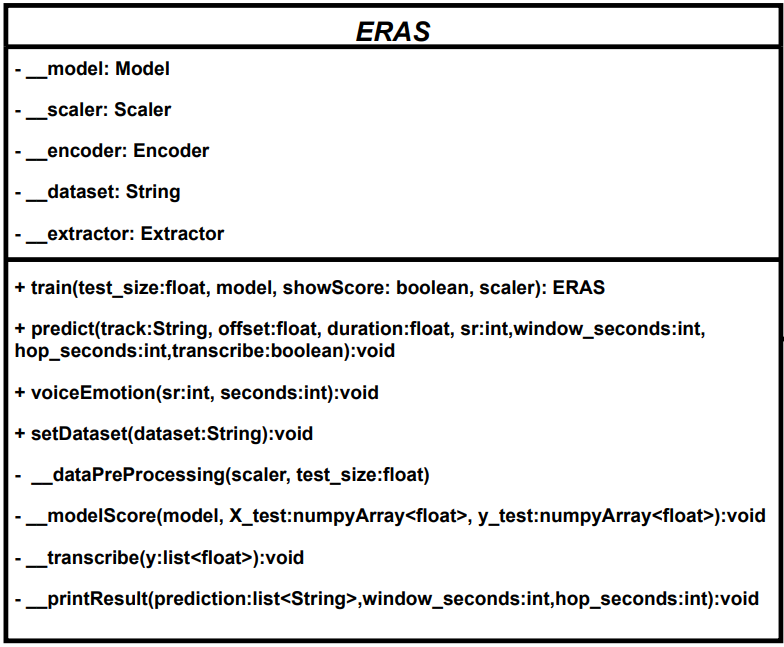
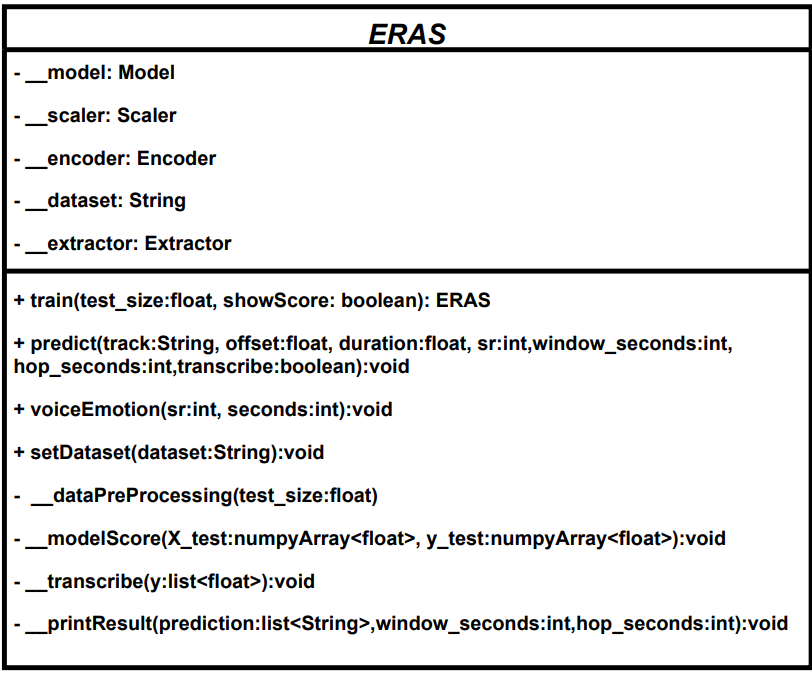
More changes in ERAS and Extractor

Changed region(s): [[0.0, 0.0, 1.0, 0.9892], [0.0612, 0.2782, 0.2449, 0.3091]]

diff --git a/Emotion Recognition of Audio Signals/include/audioEmotionClassificator.py b/Emotion Recognition of Audio Signals/include/audioEmotionClassificator.py
@@ -30,10 +30,10 @@ import wave
 
 
 class ERAS(object):
-    def __init__(self, dataset = "dataset(mffc=40).csv", emotions = "arrabbiato calmo cupo drammatico felice motivante romantico triste vivace", mfccs_n = 40):
-        ERAS.__model = None
-        ERAS.__scaler = None
-        ERAS.__encoder = None
+    def __init__(self, model = KNeighborsClassifier(n_neighbors=2), scaler = StandardScaler(), dataset = "dataset(mffc=40).csv", emotions = "Angry Calm Dark Dramatic Happy Inspirational Romantic Sad Bright".split(), mfccs_n = 40):
+        ERAS.__model = model
+        ERAS.__scaler = scaler
+        ERAS.__encoder = LabelEncoder()
         ERAS.__dataset = dataset
         ERAS.__extractor = af.Extractor(emotions, mfccs_n)
         ERAS.__colors = {'Angry': 'red',
@@ -45,34 +45,33 @@ class ERAS(object):
                 'Calm': 'green',
                 'Romantic': 'pink',
                 'Dramatic': 'purple'}
-        ERAS.__categories = "Angry Calm Dark Dramatic Happy Inspirational Romantic Sad Bright".split()
+        ERAS.__categories = emotions
 
     def setDataset(dataset): ERAS.__dataset = dataset
     
-    def __dataPreProcessing(scaler, test_size = 0.2):
+    def __dataPreProcessing(test_size = 0.2):
         
         data = pd.read_csv(ERAS.__dataset, engine='python')
         data.head()
         
         emotion_list = data.iloc[:, -1]
-        encoder = LabelEncoder()
-        encoder = encoder.fit(ERAS.__categories)
-        y = encoder.transform(emotion_list)
+        ERAS.__encoder = ERAS.__encoder.fit(ERAS.__categories)
+        y = ERAS.__encoder.transform(emotion_list)
         
         X = np.array(data.iloc[:, :-1], dtype = float)
         
         X_train, X_test, y_train, y_test = train_test_split(X, y, stratify = y, test_size = test_size)
         
-        scaler = scaler.fit(X_train)
+        ERAS.__scaler = ERAS.__scaler.fit(X_train)
         
-        X_train = scaler.transform(X_train)
-        X_test = scaler.transform(X_test)
+        X_train = ERAS.__scaler.transform(X_train)
+        X_test = ERAS.__scaler.transform(X_test)
         
-        return X_train, X_test, y_train, y_test, scaler, encoder
+        return X_train, X_test, y_train, y_test
 
-    def __modelScore(model, X_test, y_test):
+    def __modelScore(X_test, y_test):
             
-        prediction = model.predict(X_test)
+        prediction = ERAS.__model.predict(X_test)
 
         print(classification_report(prediction, y_test, target_names = ERAS.__categories))
         df_cm = pd.DataFrame(confusion_matrix(prediction, y_test, normalize='true'), index = [i for i in ERAS.__categories],
@@ -82,32 +81,27 @@ class ERAS(object):
 
         plt.show()
 
-    def train(self, test_size = 0.2, model = KNeighborsClassifier(n_neighbors=2), showScore = True, scaler=StandardScaler()):
+    def train(self, test_size = 0.2, showScore = True):
         
         
-        X_train, X_test, y_train, y_test, scaler, encoder = ERAS.__dataPreProcessing(scaler, test_size)
+        X_train, X_test, y_train, y_test = ERAS.__dataPreProcessing(test_size)
         
         strtfdKFold = StratifiedKFold(n_splits=10)
         kfold = strtfdKFold.split(X_train, y_train)
         scores = []
         
         for k, (train, test) in enumerate(kfold):
-            model.fit(X_train[train], y_train[train])
-            score = model.score(X_train[test], y_train[test])
+            ERAS.__model.fit(X_train[train], y_train[train])
+            score = ERAS.__model.score(X_train[test], y_train[test])
             scores.append(score)
             print('Fold: %2d, Training/Test Split Distribution: %s, Accuracy: %.3f' % (k+1, np.bincount(y_train[train]), score))
     
         print('\n\nCross-Validation accuracy: %.3f +/- %.3f' %(np.mean(scores), np.std(scores)))
-
-        #model = model.fit(X_train, y_train)
         
         if(showScore):
-           ERAS.__modelScore(model, X_test, y_test)
+           ERAS.__modelScore(X_test, y_test)
         
         
-        ERAS.__model = model
-        ERAS.__encoder = encoder
-        ERAS.__scaler = scaler
         return self
 
     def predict(self, track, offset = None, duration = None, sr = 22050, window_seconds = 15, hop_seconds = 10, transcribe = False):

diff --git a/Emotion Recognition of Audio Signals/include/audioFeatures.py b/Emotion Recognition of Audio Signals/include/audioFeatures.py
@@ -9,8 +9,8 @@ import scipy
 warnings.filterwarnings("ignore")
 
 class Extractor(object):
-    def __init__(self, emotions = "arrabbiato calmo cupo drammatico felice motivante romantico triste vivace", mfccs_n = 40):
-        Extractor.__emotions = emotions.split()
+    def __init__(self, emotions = "Angry Calm Dark Dramatic Happy Inspirational Romantic Sad Bright".split(), mfccs_n = 40):
+        Extractor.__emotions = emotions
         Extractor.__mfccs_n = mfccs_n
         Extractor.__header = Extractor.__headerMaker(self)
         
@@ -131,8 +131,8 @@ class Extractor(object):
 
         return to_append.split()
 
-    def __csvMaker(file_name, data, perms = "a"):
-        file = open(file_name, perms, newline="")
+    def __csvMaker(filename, data, perms = "a"):
+        file = open(filename, perms, newline="")
         with file:
             writer = csv.writer(file)
             writer.writerow(data)
@@ -152,7 +152,7 @@ class Extractor(object):
 
     def datasetMaker(self,
         path_tracks = "Tracks/",
-        file_name="dataset",
+        filename="dataset",
         encoder=LabelEncoder(),
         sr = 22050,
         window_seconds = 15,
@@ -161,10 +161,10 @@ class Extractor(object):
     ):
         encoder = encoder.fit(Extractor.__emotions)
         
-        Extractor.__csvMaker(file_name + ".csv", Extractor.__header, "w")
+        Extractor.__csvMaker(filename + ".csv", Extractor.__header, "w")
 
         if(print_metadata): 
-            Extractor.__csvMaker(file_name= file_name + "_metadata.csv", data="file_name start end classID class".split(), perms="w")
+            Extractor.__csvMaker(file_name= filename + "_metadata.csv", data="file_name start end classID class".split(), perms="w")
         
         count = 0
         for g in Extractor.__emotions:
@@ -189,7 +189,7 @@ class Extractor(object):
                     
                     data = Extractor.featuresExtractor(y = y, sr = sr)
                     data.append(g)
-                    Extractor.__csvMaker(file_name + ".csv", data)
+                    Extractor.__csvMaker(filename + ".csv", data)
                     
                     if(print_metadata):     
                         data = [
@@ -200,6 +200,6 @@ class Extractor(object):
                             g,
                         ]
 
-                        Extractor.__csvMaker(file_name + "_metadata.csv", data)
+                        Extractor.__csvMaker(filename + "_metadata.csv", data)
                         start += int(hop_len / sr)
                         end = start + int(frame_len / sr)
